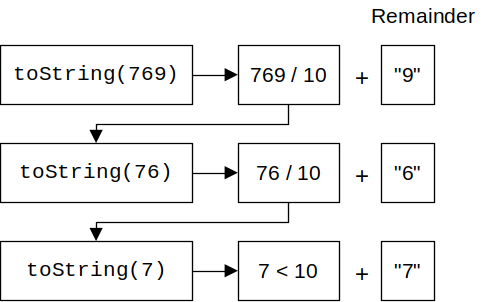
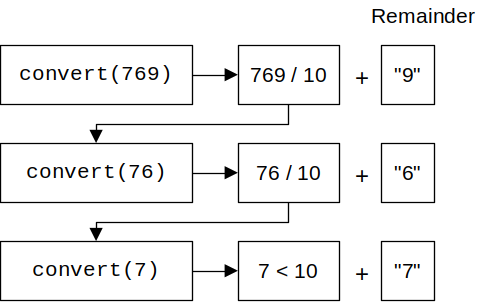
Edits to recursion chapter.

Changed region(s): [[0.0309, 0.5364, 0.3704, 0.6258], [0.0309, 0.2086, 0.3704, 0.298], [0.0617, 0.8642, 0.3395, 0.9238]]

diff --git a/javads_code/recursion/ConvertViaStack.java b/javads_code/recursion/ConvertViaStack.java
@@ -1,6 +1,6 @@
 public class ConvertViaStack {
 
-    public static String toString(int n, int base) {
+    public static String convert(int n, int base) {
         Stack<String> rStack = new Stack<>();
         
         String [] digitStrings = {"0", "1", "2", "3", "4", "5",
@@ -8,10 +8,8 @@ public class ConvertViaStack {
         
         while (n > 0) {
             if (n < base) {
-                System.err.printf("pushing %d%n", n);
                 rStack.push(digitStrings[n]);
             } else {
-                System.err.printf("pushing remainder %d%n", n % base);
                 rStack.push(digitStrings[n % base]);
             }
             n = n / base;
@@ -19,14 +17,12 @@ public class ConvertViaStack {
         
         String result = "";
         while (! rStack.isEmpty()) {
-            System.out.printf("About to pop %s%n", rStack.peek());
             result = result + rStack.pop();
-            System.out.println("Result is now " + result);
         }
         return result;
     }
 
     public static void main(String[] args) {
-        System.out.println(toString(13, 2));
+        System.out.println(convert(13, 2));
     }
 }

diff --git a/javads_code/recursion/RecursiveBaseConversion.java b/javads_code/recursion/RecursiveBaseConversion.java
@@ -1,18 +1,17 @@
 public class RecursiveBaseConversion {
-    public static String toString(int n, int base) {
+    public static String convert(int n, int base) {
         String [] digitStrings = {"0", "1", "2", "3", "4", "5",
             "6", "7", "8", "9", "A", "B", "C", "D", "E", "F"};
         if (n < base) {
             return digitStrings[n];
         } else {
             int remainder = n % base;
-            return toString(n / base, base) + digitStrings[remainder];
+            return convert(n / base, base) + digitStrings[remainder];
         }
     }
 
     public static void main(String[] args) {
-        System.out.println(toString(13, 2));     // 1101
-        System.out.println();
-        System.out.println(toString(1066, 16));  // 42A
+        System.out.println(convert(13, 2));     // 1101
+        System.out.println(convert(1066, 16));  // 42A
     }
 }
